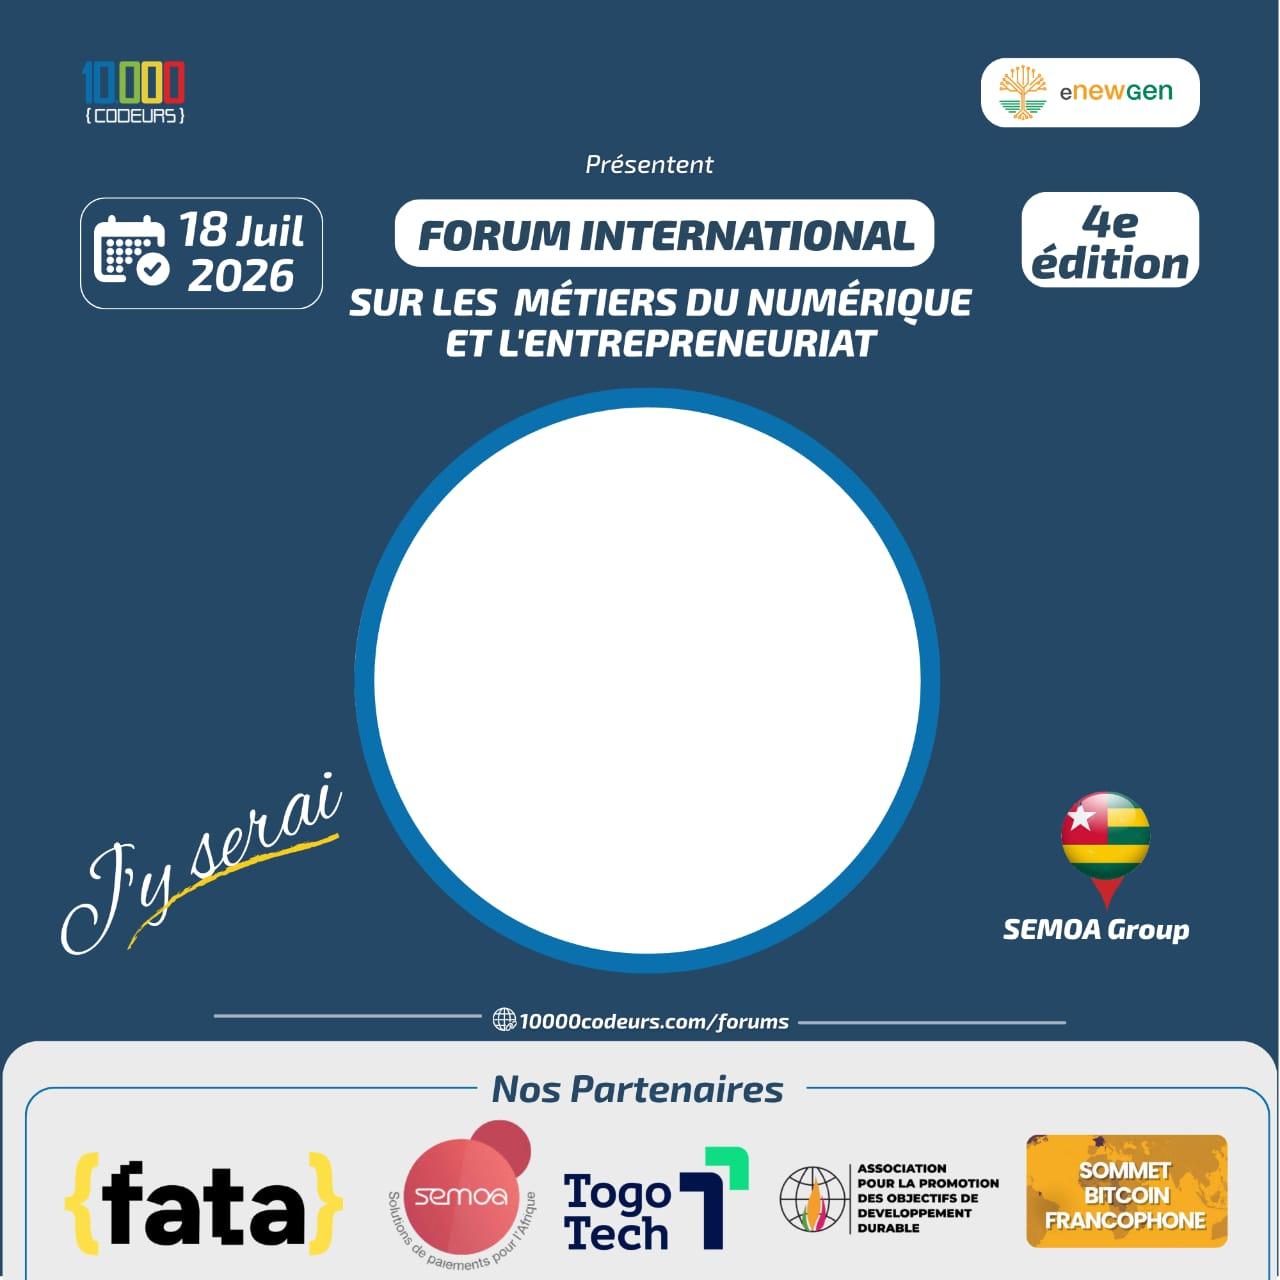
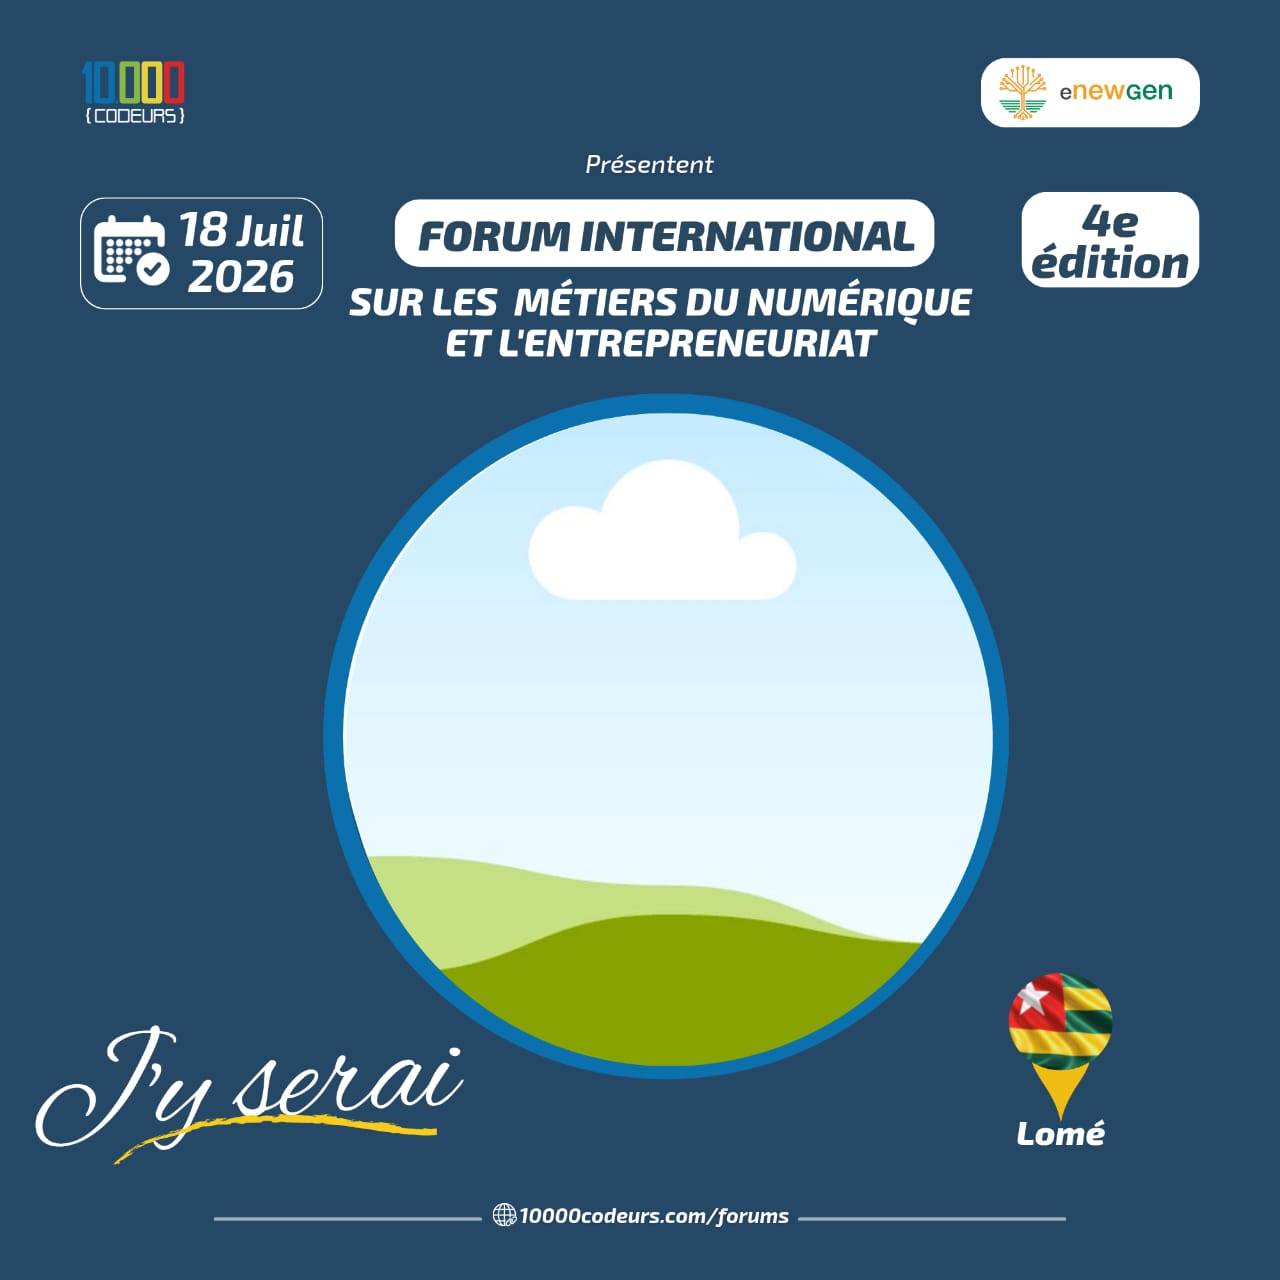
update again togocarte

diff --git a/index.html b/index.html
@@ -341,7 +341,7 @@ const COMMUNES = [
 
 /* Géométrie du cercle de masquage selon le pays (coordonnées relatives 0 à 1) */
 function getCercleCoords(countryId) {
-  if (['cote-ivoire', 'mauritanie', 'burkina', 'comores', 'senegal','togo','madagascar'].includes(countryId)) {
+  if (['cote-ivoire', 'mauritanie', 'togo','burkina', 'comores', 'senegal','madagascar'].includes(countryId)) {
     return { CX: 0.5203, CY: 0.5750, R: 0.25 };
   }
   return { CX: 0.5088, CY: 0.5398, R: 0.235 };
